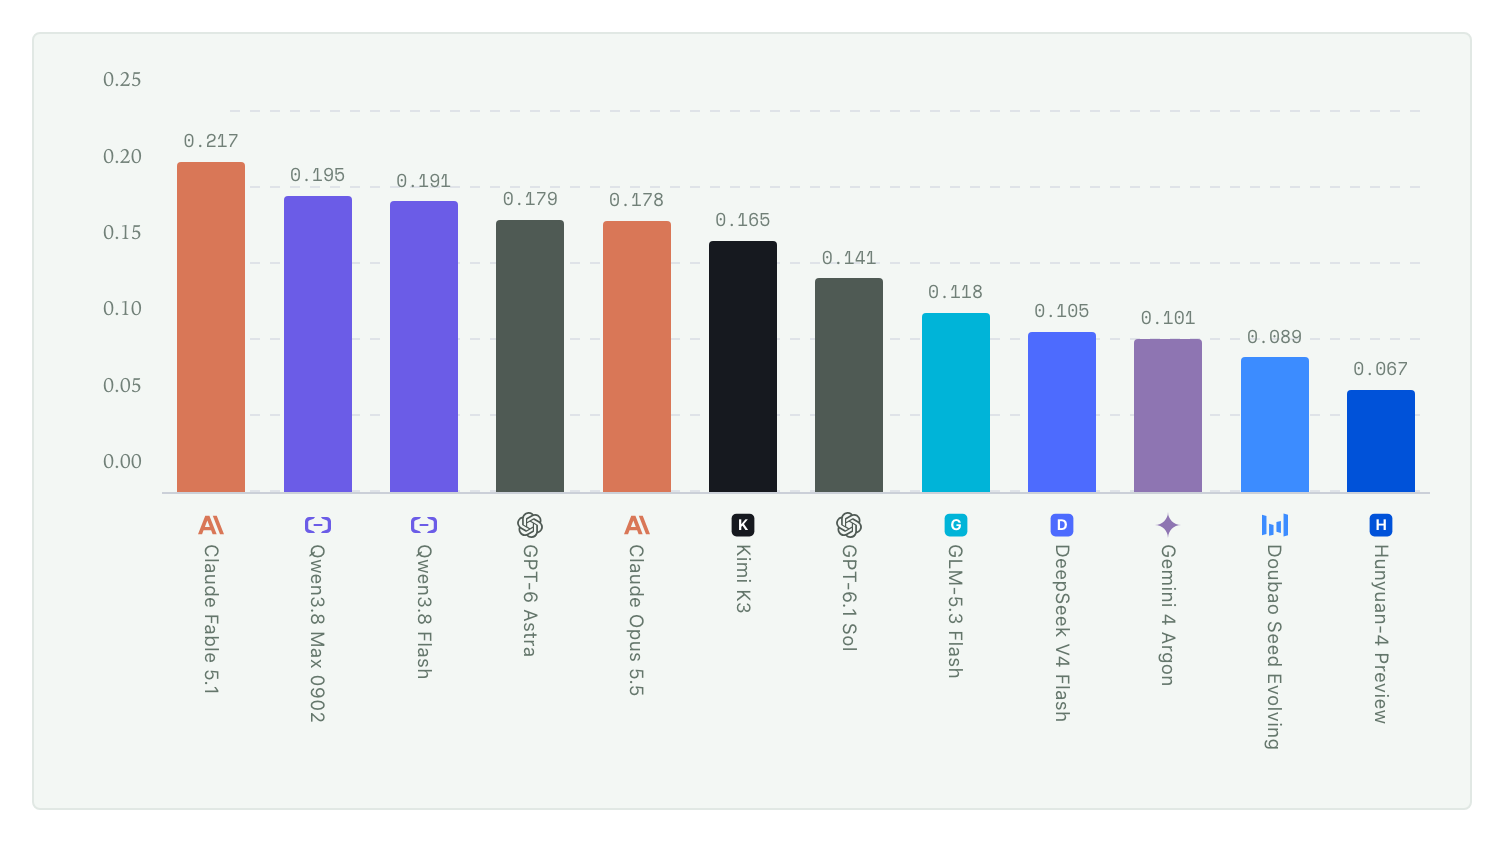
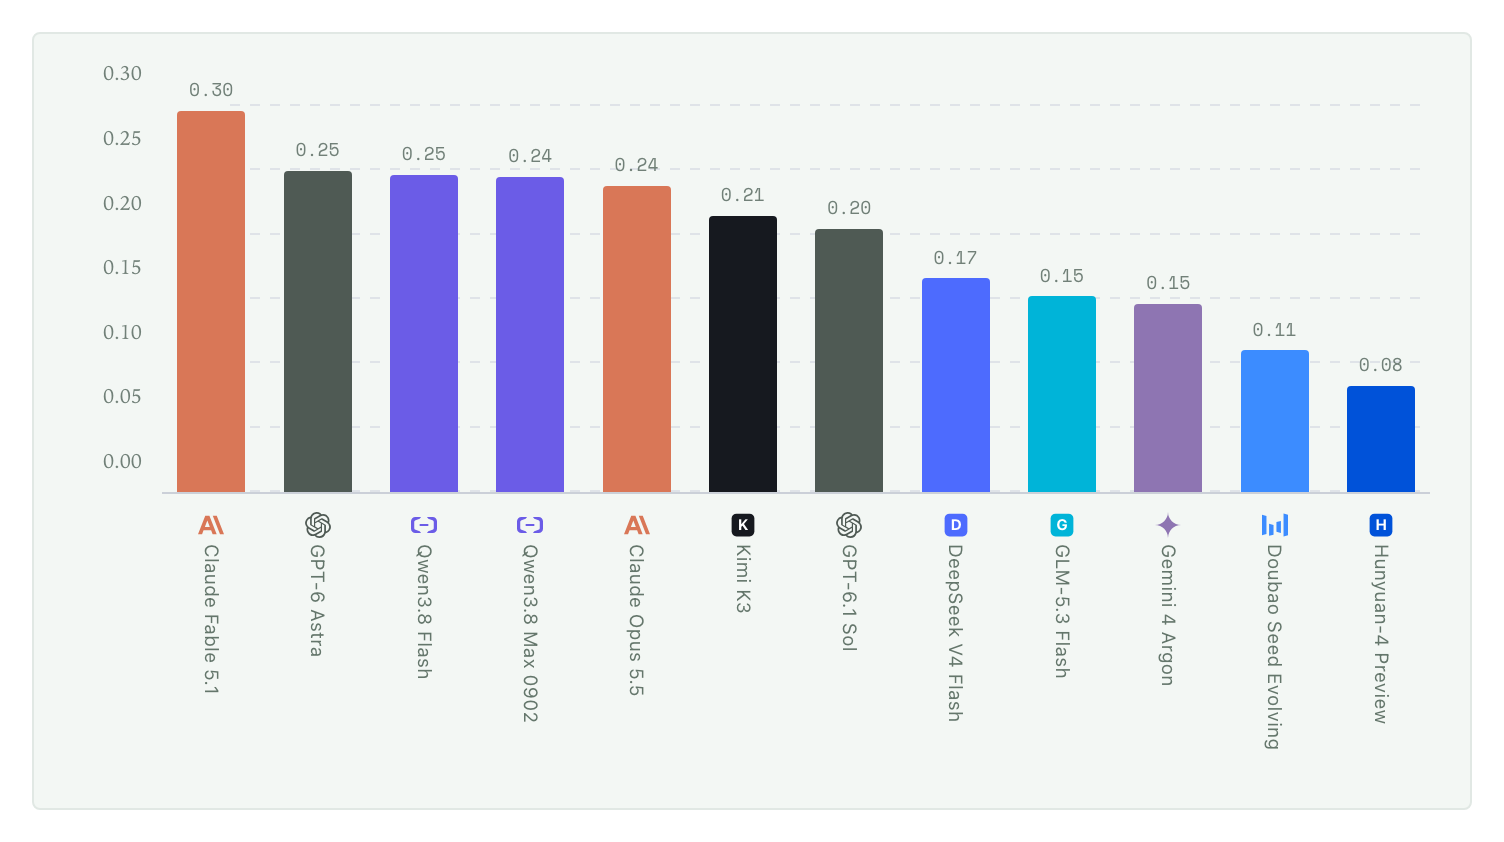
docs: align the release page with the published dataset and results
The page still carried the numbers and access terms of an earlier round. This
brings it onto the published set and the comparison the blog reports.

- Title and links: adopt the published title and put Blog, Dataset and Paper
  (coming soon) directly under it.
- Dataset: state what the card publishes (22 sub-domains, 30 direction labels,
  per-domain asset counts, a reference solution per task, 54 task rubrics),
  describe access as private rather than gated, and drop the release-relative
  swap note that a reader has no previous set to compare against.
- Model comparison: replace the table, the run counts, the segment provenance
  and the per-domain figures with the 2026-10-21 results, and regenerate the
  three charts from that data.
- License: the dataset card, MANIFEST and LICENSE declare MIT.

The dataset pin moves to a1cd8c2, where the integrity manifest was repaired to
match the served files.

diff --git a/README.md b/README.md
@@ -1,6 +1,13 @@
 <div align="center">
   <img src="assets/banner.png" alt="ScienceVision" width="90%" />
-  <h1>ScienceVision: A Benchmark for Observing and Reasoning over Scientific 3D Data</h1>
+  <h1>ScienceVision: Can AI Observe and Reason Like a Scientist?</h1>
+  <p>
+    <a href="https://unipat.ai/blog/ScienceVision">Blog</a>
+    &nbsp;·&nbsp;
+    <a href="https://huggingface.co/datasets/UnipatAI/ScienceVision">Dataset</a>
+    &nbsp;·&nbsp;
+    <span>Paper (coming soon)</span>
+  </p>
 </div>
 
 ScienceVision is a benchmark for **observing and reasoning over scientific 3D data**: 250
@@ -27,9 +34,26 @@ never as a score of zero. See [the scoring standard](docs/evaluation.md#scoring-
 
 ## 1. Dataset
 
-**ScienceVision** holds 250 tasks, 50 per domain, with source assets, rendered views, expert answers
-and the recorded expert sessions they were selected on. It is gated: authenticate with an account
-that has been granted access.
+**ScienceVision** holds 250 tasks, 50 per domain, with source assets, rendered views, expert
+answers and the recorded expert sessions they were selected on. Tasks are grouped into 22
+sub-domains and 30 direction labels; 143 ask for a single answer field and 107 for two or more.
+
+| Domain | Tasks | Sub-domains | `assets/` files |
+|---|---:|---:|---:|
+| Architecture | 50 | 4 | 57 |
+| Biology | 50 | 5 | 50 |
+| Chemistry | 50 | 5 | 50 |
+| Mechanical CAD | 50 | 4 | 110 |
+| Medical imaging | 50 | 4 | 58 |
+| **Total** | **250** | **22** | **325** |
+
+Every task is a self-contained directory: `question.md`, `answer.json`, `normalized.json`,
+`task_and_trajectory.json`, its `assets/`, and the rendered `views/` and `views-aligned/`. Every
+task also ships a reference solution under `oracles/<task_id>/solution/`, and 54 tasks declare a
+task-specific rubric in `verifier/scoring/`.
+
+The dataset repository is private. Download requires a Hugging Face account that has been granted
+access.
 
 ```bash
 hf auth login
@@ -46,16 +70,17 @@ are tied to that snapshot.
 Read the question and answer from `<domain>/<task_id>/normalized.json`. It is the one record
 every task has. `answer.json` carries the expert ground truth in the form the scorer reads.
 
-This revision replaces 13 tasks of the previous 250-question set, keeping every sub-domain count
-unchanged. The [dataset guide](docs/dataset.md) covers the layout, the records, and the four
-declared limitations. Read them before quoting a score: two of them change what a per-task
-comparison means.
+The release was checked task by task: every gold scores itself under its contract, every oracle
+reaches 1.0, and 2,405 of the 2,406 recorded expert steps carry their screenshot. The 250
+questions were written and reviewed by 66 experts across the five disciplines, 482.98 recorded
+hours in all. The [dataset guide](docs/dataset.md) covers the layout, the records, and the
+declared limitations. Read them before quoting a score: they change what a per-task comparison
+means.
 
 ## 2. Model comparison
 
 Twelve models over the same 250 questions under three access settings. Mean `answer_score` on
-`[0, 1]`, ineligible trials counted zero; the two 3D settings average three runs per question,
-the six-view setting is a single run.
+`[0, 1]`, ineligible trials counted zero; every setting averages three runs per question.
 
 ![Mean answer score under cc-3d and cc-mcp](assets/leaderboard-cc3d-vs-ccmcp.png)
 
@@ -64,26 +89,26 @@ tools: change views, isolate structures, inspect slices, measure geometry.*
 
 | # | Model | `cc-3d` | `cc-mcp` | `cc-2d-6` |
 |--:|---|---:|---:|---:|
-| 1 | GPT-6 Astra | 0.4403 | 0.4396 | 0.1789 |
-| 2 | GPT-6.1 Sol | 0.4074 | 0.4292 | 0.1406 |
-| 3 | Claude Fable 5.1 | 0.3860 | 0.3900 | 0.2174 |
-| 4 | Claude Opus 5.5 | 0.3771 | 0.3627 | 0.1783 |
-| 5 | Gemini 4 Argon | 0.3565 | 0.3625 | 0.1006 |
-| 6 | Qwen3.8 Max 0902 | 0.3199 | 0.3099 | 0.1947 |
-| 7 | Qwen3.8 Flash | 0.2895 | 0.2968 | 0.1913 |
-| 8 | Kimi K3 | 0.2834 | 0.2693 | 0.1653 |
-| 9 | GLM-5.3 Flash | 0.2206 | 0.2283 | 0.1179 |
-| 10 | DeepSeek V4 Flash | 0.2231 | 0.2211 | 0.1054 |
-| 11 | Doubao Seed Evolving | 0.1928 | 0.1984 | 0.0887 |
-| 12 | Hunyuan-4 Preview | 0.1283 | 0.1426 | 0.0673 |
+| 1 | GPT-6 Astra | 0.5291 | 0.5282 | 0.2498 |
+| 2 | GPT-6.1 Sol | 0.4893 | 0.5110 | 0.2044 |
+| 3 | Claude Fable 5.1 | 0.4619 | 0.4631 | 0.2965 |
+| 4 | Claude Opus 5.5 | 0.4539 | 0.4343 | 0.2383 |
+| 5 | Gemini 4 Argon | 0.4278 | 0.4321 | 0.1462 |
+| 6 | Qwen3.8 Max 0902 | 0.3830 | 0.3736 | 0.2450 |
+| 7 | Qwen3.8 Flash | 0.3616 | 0.3681 | 0.2468 |
+| 8 | Kimi K3 | 0.3609 | 0.3369 | 0.2148 |
+| 9 | GLM-5.3 Flash | 0.2846 | 0.2858 | 0.1521 |
+| 10 | DeepSeek V4 Flash | 0.2652 | 0.2678 | 0.1661 |
+| 11 | Doubao Seed Evolving | 0.2435 | 0.2527 | 0.1102 |
+| 12 | Hunyuan-4 Preview | 0.1598 | 0.1738 | 0.0824 |
 
-Under both 3D settings the five closed-source models place ahead of every open-source model. No
-model reaches 0.60, so nothing is saturated. The six-view setting orders differently: Claude
-Fable 5.1 leads it.
+Under both 3D settings the five closed-source models place ahead of every open-source model. The
+best overall mean is 0.53 and the highest single discipline cell is 0.65, so nothing is
+saturated. The six-view setting orders differently: Claude Fable 5.1 leads it.
 
 ![Mean answer score under cc-2d-6](assets/leaderboard-cc2d6.png)
 
-*Six rendered views, a single run. Evidence has to come from the supplied images.*
+*Six rendered views, three runs. Evidence has to come from the supplied images.*
 
 ![Per-domain mean@3 under cc-3d](assets/leaderboard-per-domain.png)
 
@@ -91,8 +116,9 @@ Fable 5.1 leads it.
 compares models within a discipline, not disciplines with each other.*
 
 **Two things to know before quoting any of this.** The comparison is a *splice*: each model's row
-joins a carried-over segment with a re-run segment, and those segments did not come from one
-harness. And Gemini 4 Argon covers two runs rather than three. The
+joins a carried-over segment with a re-run segment, and six models take their re-run segment from
+a separate evaluation service. Gemini 4 Argon's carried-over segment has two runs rather than
+three, and three of Hunyuan-4's six-view questions have two. The
 [comparison notes](docs/leaderboard.md) record the segment sources, the question-set provenance,
 and the version drift in full, and state the resulting limit plainly: *equal coverage does not
 establish a controlled comparison*.
@@ -174,10 +200,11 @@ The project has a paper; its citation will be published here and on the
 results by the setting and scorer version you used rather than by a single headline number. The
 [comparison notes](docs/leaderboard.md) explain why that matters here.
 
-Documentation, schemas, utility scripts, and the evaluation implementation in this repository are
-**MIT** ([LICENSE](LICENSE)). That license does **not** cover the dataset or the third-party
-assets inside it: the dataset declares no license of its own. Container contents keep their own.
-See [NOTICE](NOTICE) and the [dataset guide](docs/dataset.md#interpretation-and-data-terms).
+The dataset package declares **MIT** in its card, `MANIFEST.json`, and `LICENSE`; that
+declaration does not grant rights to the third-party assets inside it. Documentation, schemas,
+utility scripts, and the evaluation implementation in this repository are **MIT** as well
+([LICENSE](LICENSE)). Container contents keep their own. See [NOTICE](NOTICE) and the
+[dataset guide](docs/dataset.md#interpretation-and-data-terms).
 
 Contributions are described in [CONTRIBUTING.md](CONTRIBUTING.md). The
 [project overview](docs/project.md) records what is still required before this release can be

diff --git a/docs/leaderboard.md b/docs/leaderboard.md
@@ -12,10 +12,11 @@ establish. Read it before quoting any figure.
 | Ineligible trials | Counted zero |
 | Denominator | 50 tasks per domain, 250 overall |
 | `cc-3d`, `cc-mcp` | `mean@3`: three runs per question, averaged per task, then over tasks |
-| `cc-2d-6` | `mean@1`: a single run |
+| `cc-2d-6` | `mean@3`: three runs, same metric |
 
 The two 3D settings share a metric and a scale, so they are charted together and answer whether
-the inspection tools help. The six-view setting is scored differently and gets its own chart.
+the inspection tools help. The six-view setting is drawn on its own axis, so compare its order
+with the 3D charts, not its bar lengths.
 
 `answer_score` comes from the deterministic scorer described in
 [evaluation.md](evaluation.md#scoring-standard). It is not a judge model's rating.
@@ -25,27 +26,26 @@ the inspection tools help. The six-view setting is scored differently and gets i
 ![Mean answer score under cc-3d and cc-mcp](../assets/leaderboard-cc3d-vs-ccmcp.png)
 
 Under both 3D settings the five closed-source models place ahead of every open-source model.
-No model reaches 0.60, and the best overall mean is 0.44, so the ceiling sits well out of reach
-and nothing is saturated. Seven of the eleven adjacent pairs are cleanly ordered; four are not,
-and one of those, Gemini 4 Argon against Claude Opus 5.5, has ranges that meet across a boundary
-of 0.0002.
+The best overall mean is 0.53 and the highest single discipline cell is 0.65, so the ceiling
+sits well out of reach and nothing is saturated. Five of the eleven adjacent pairs are cleanly
+ordered; the other six have overlapping ranges, the widest of them Gemini 4 Argon against Claude
+Opus 5.5, whose two-run band reaches 0.6218.
 
 ![Mean answer score under cc-2d-6](../assets/leaderboard-cc2d6.png)
 
-The six-view setting orders differently: Claude Fable 5.1 leads it, ahead of two open-source
-models and every model that leads under 3D access.
+The six-view setting orders differently: Claude Fable 5.1 leads it, ahead of GPT-6 Astra, which
+leads both 3D settings.
 
-**Read the position and the order, not the bar length.** This column is not adjusted for the
-latest task replacements, because both batches ran the two 3D settings only, and its axis is a
-different metric over half the range.
+**Read the position and the order, not the bar length.** This column is drawn on its own axis,
+over a narrower range than the two 3D charts.
 
 ![Per-domain mean@3 under cc-3d](../assets/leaderboard-per-domain.png)
 
 Each column carries its own scale, whose maximum sits under the discipline name, so bar length
 compares models within a discipline and not disciplines with each other. Mechanical CAD,
-medical imaging and architecture use most of their own range, 0.88, 0.87 and 0.78 of each
-column's maximum, and their weakest models fall to 0.07, 0.03 and 0.07. Chemistry and biology
-are flatter, spanning 0.62 and 0.57 of the column maximum with no model below 0.22.
+medical imaging and architecture use most of their own range, 0.87, 0.80 and 0.79 of each
+column's maximum, and their weakest models fall to 0.07, 0.08 and 0.10. Chemistry and biology
+are flatter, spanning 0.60 and 0.53 of the column maximum with no model below 0.24.
 
 ## Where the numbers come from
 
@@ -54,29 +54,28 @@ segment, and the segments were not produced by one harness:
 
 | Segment | Source |
 |---|---|
-| Carried-over, both OpenAI rows | One Codex harness |
-| Carried-over, six further models | A separate evaluation service |
-| Carried-over, four models | The same harness family as their re-run |
-| Re-run | The task replacements measured for this set |
+| GPT-6 Astra, GPT-6.1 Sol | Codex harness, all 250 questions, all three settings |
+| The other ten models | Claude Code |
+| Re-run segment: Claude Fable 5.1, Claude Opus 5.5, Gemini 4 Argon, Qwen3.8 Max 0902, Qwen3.8 Flash, Kimi K3 | A separate evaluation service |
+| Re-run segment: GPT-6 Astra, GPT-6.1 Sol, GLM-5.3 Flash, DeepSeek V4 Flash, Doubao Seed Evolving, Hunyuan-4 Preview | The same harness family as their carried-over segment |
 
-Gemini 4 Argon covers **two runs rather than three** in both 3D settings; every other model
-covers three.
+Gemini 4 Argon's carried-over segment covers **two runs rather than three** in both 3D settings,
+and three of Hunyuan-4's six-view questions have two runs; every other cell covers three.
 
-The replacement batches measured the two 3D settings only, and the medical replacements are a
-**single-rep pilot** whose three-rep run had not completed when this comparison was assembled.
-Per-task comparisons hold within a batch, not across batches.
+Scores are reported as evaluated. They do not show that every historical run has been
+independently replayed, and rebuilding these aggregates reproduces the summary figures here,
+not a replay of the original evaluation.
 
 ## Question set
 
-This comparison uses the 250-question set. 202 questions carry over from an earlier evaluation,
-32 were replaced in the previous round, and 13 more were replaced in this one. The 13 replacement
-questions were measured on all twelve models; the other 237 rows are inherited.
+This comparison uses the 250-question package published as
+[`UnipatAI/ScienceVision`](https://huggingface.co/datasets/UnipatAI/ScienceVision). All 250
+questions are covered; no task is missing from a model's row.
 
 ## Version drift
 
-The replacement questions and the inherited segments were measured on different days, and model
-aliases carry no version. A difference between two rows therefore combines a replacement effect
-and a possible version difference.
+Runs were measured on different days, and model aliases carry no version. A difference between
+two rows therefore can mix a change of run with a change of model version.
 
 **Equal coverage does not establish a controlled comparison.**
 

diff --git a/docs/project.md b/docs/project.md
@@ -35,13 +35,13 @@ Large data and evaluation histories are not duplicated in Git.
 
 ## Release status
 
-This repository is private. The dataset is private and gated. The GHCR packages are private.
+This repository is private. The dataset repository is private. The GHCR packages are private.
 
 Before public release, the following must be settled. Each is a link that a reader outside the
 organisation cannot follow today:
 
-1. **The dataset must be reachable** at its canonical repository, and its license stated. The
-   source card currently declares none.
+1. **The dataset must be reachable** at its canonical repository. The package card,
+   `MANIFEST.json`, and `LICENSE` declare MIT.
 2. **The harness is vendored under `harness/`.** The whole `eval-baseline` branch is present
    at source commit `6fd95252e81fb153432add0f2400d9ee1eea6697`; the reported results were
    produced on `b47f13ac5abb54b9e287ff3131ae7e29771ec53e`. Both revisions are recorded in

diff --git a/docs/dataset.md b/docs/dataset.md
@@ -73,9 +73,10 @@ python harbor/build_tasks.py --out /tmp/sciencevision-harbor --route cc-mcp --li
 
 ## What this release is
 
-The current set replaces **13 tasks** of the previous 250-question set: eight architecture and
-five medical. Every swap keeps the same `sub_domain`, so all 22 buckets and all five domain counts
-are unchanged. `KNOWN_ISSUES.md` carries the declared gaps for the tasks that ship.
+The 250 tasks are grouped into **22 sub-domains** and **30 `direction` labels**, and every answer
+is one JSON object: 143 tasks ask for a single field, 107 for two or more. The five domain counts
+are equal, which does not imply uniform coverage of task types within a domain.
+`KNOWN_ISSUES.md` carries the declared gaps for the tasks that ship.
 
 ## Scoring
 
